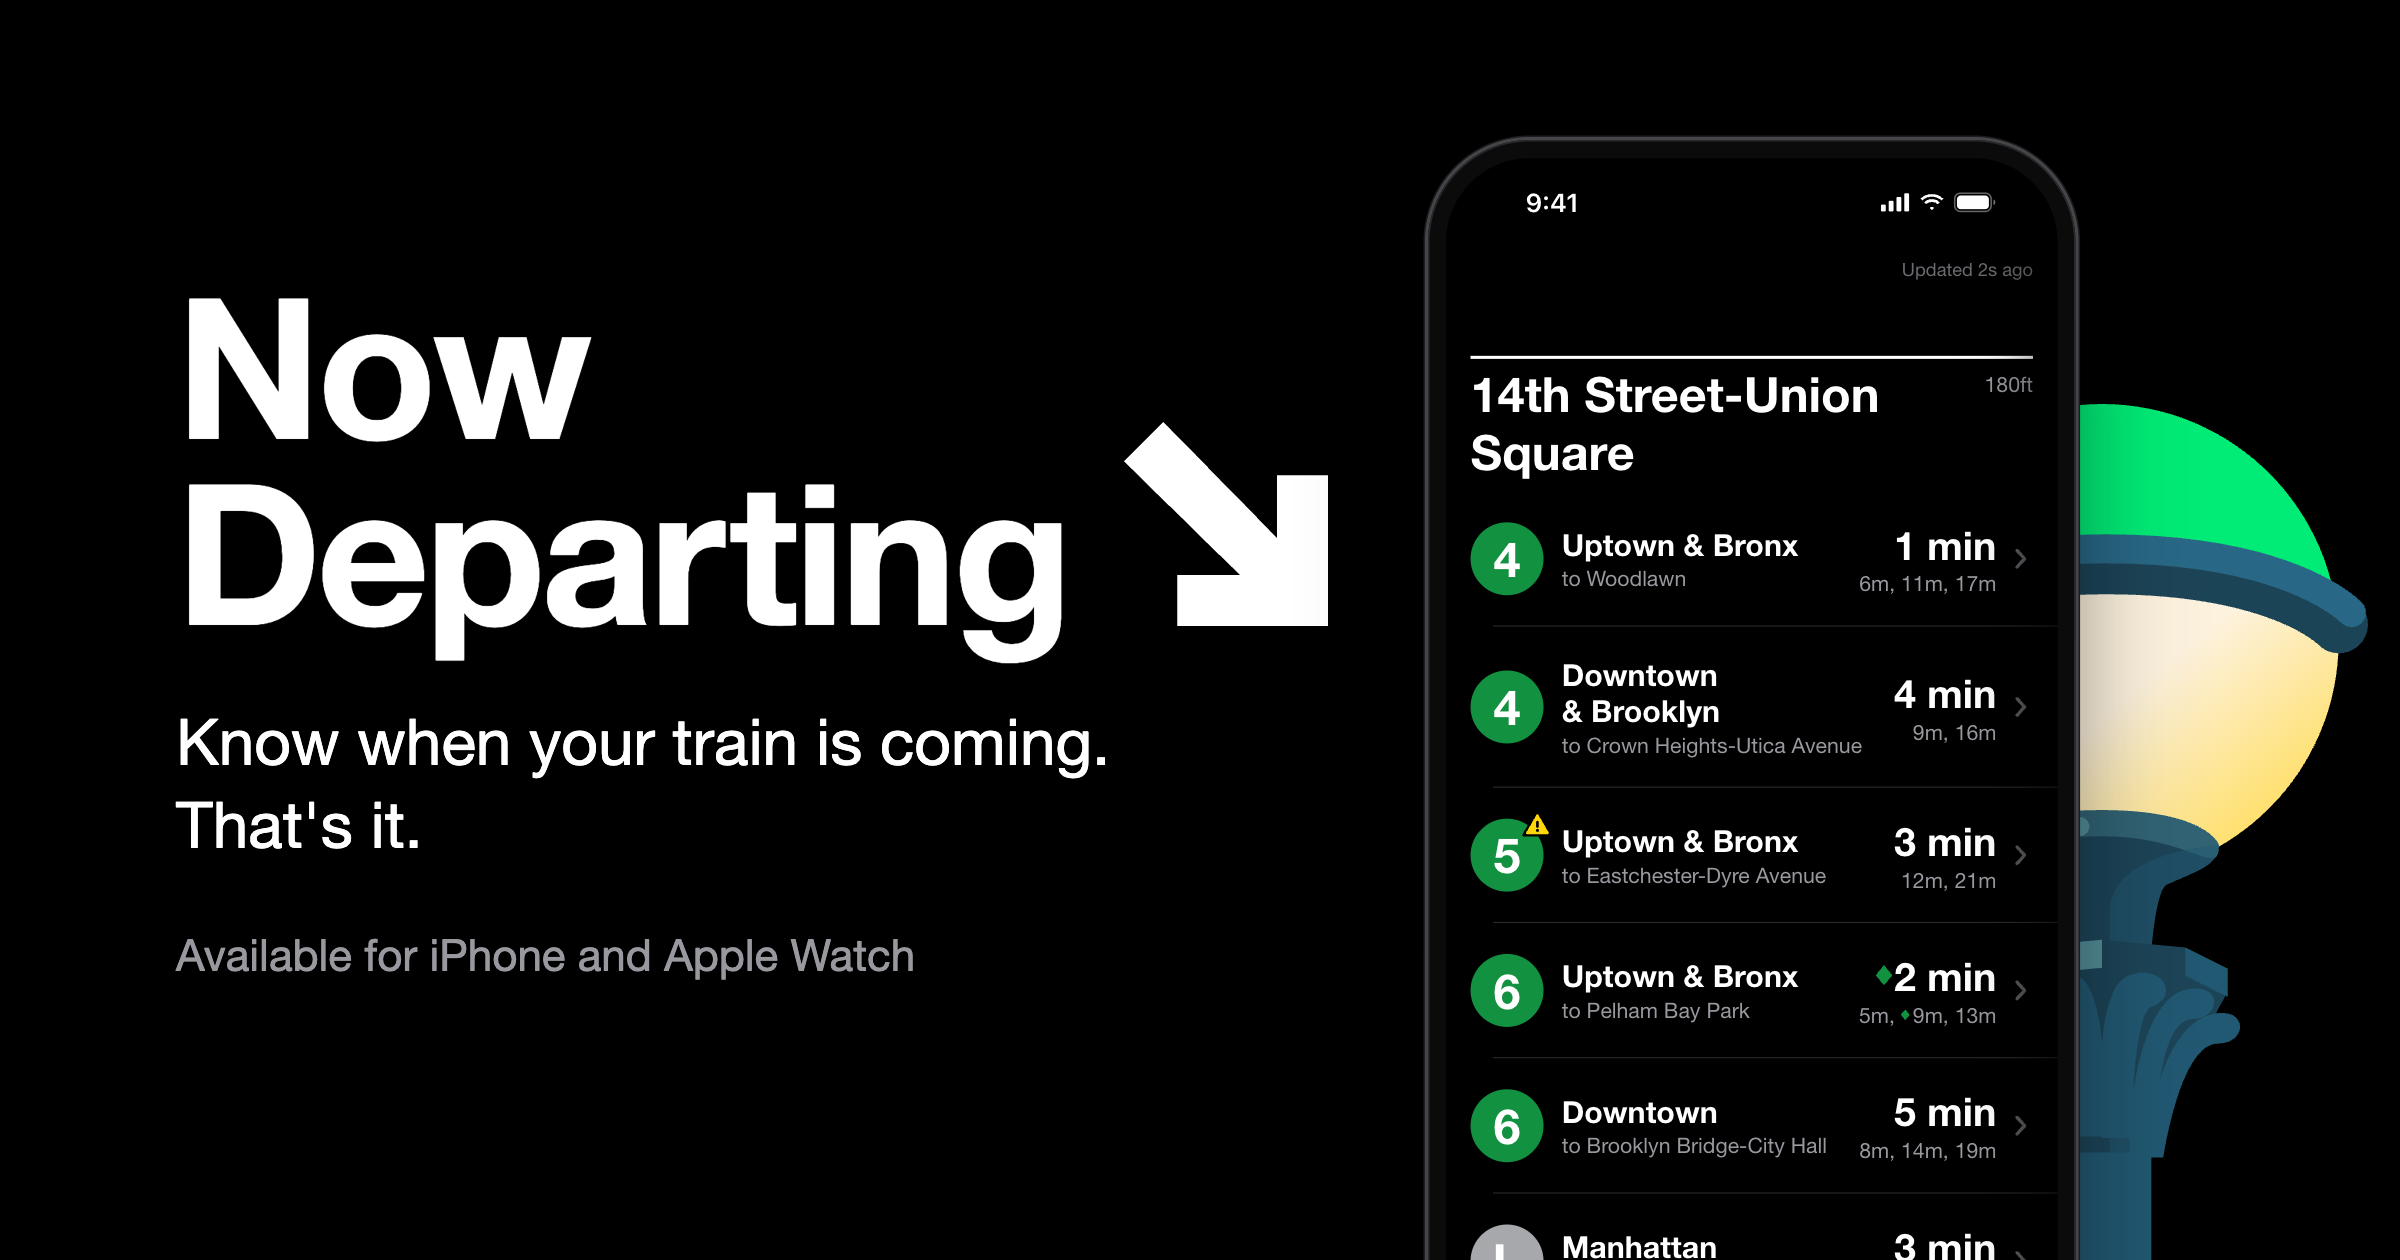
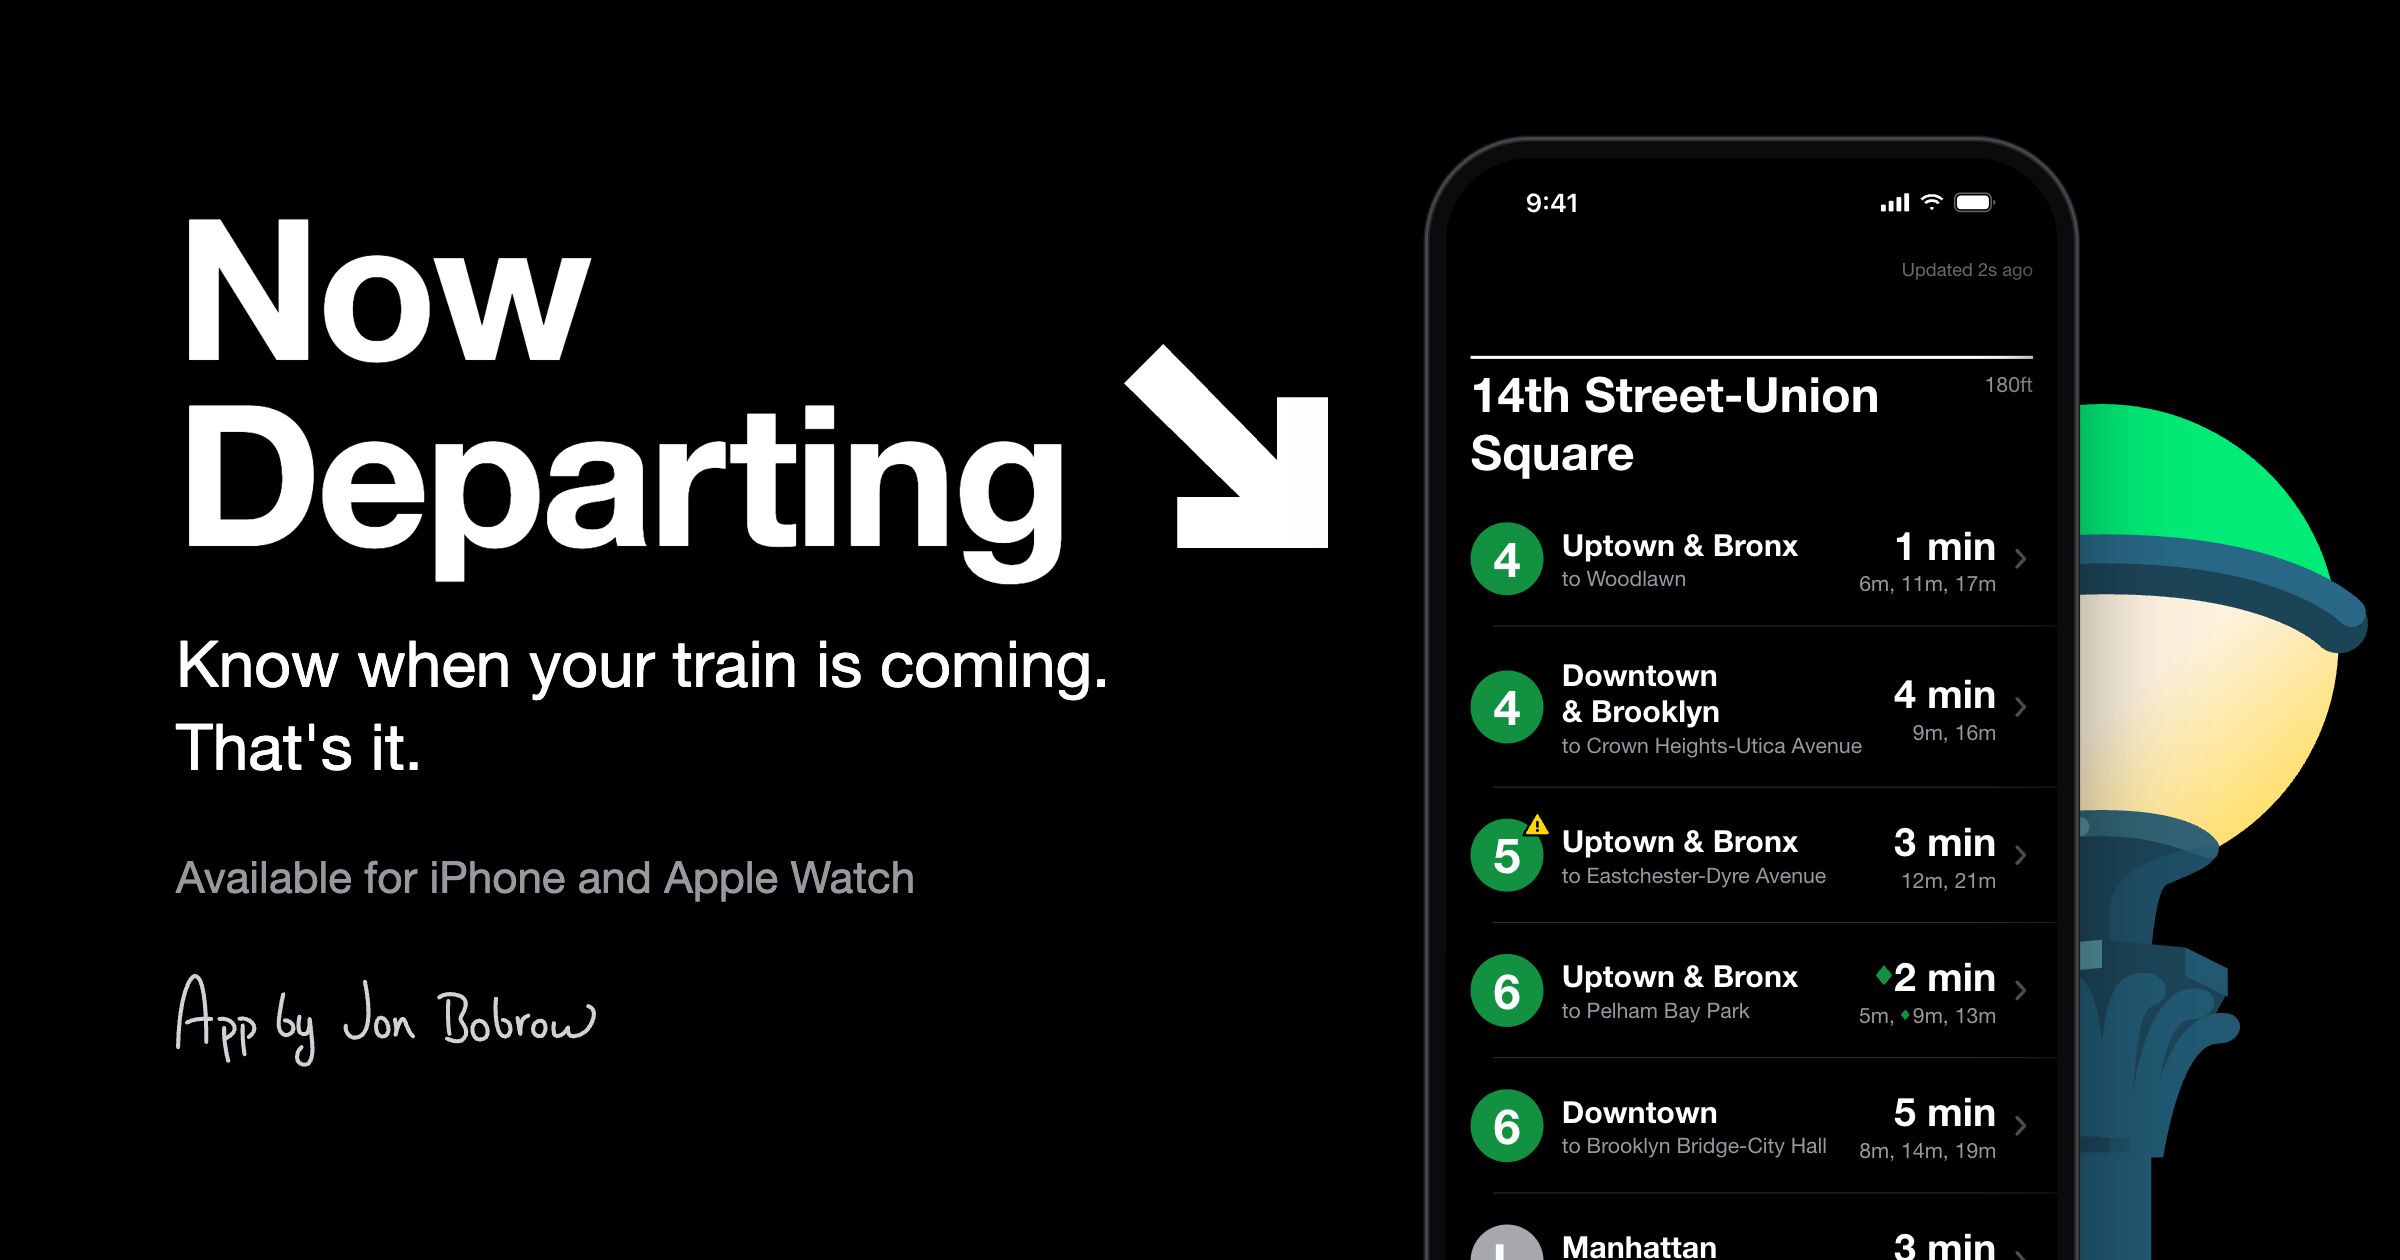
Share image: App by Jon Bobrow signature

Changed region(s): [[0.0625, 0.1548, 0.5625, 0.7119], [0.0625, 0.7429, 0.375, 0.8357]]

diff --git a/_og/og-image.html b/_og/og-image.html
@@ -1013,6 +1013,7 @@
     .tagline { font-size: 32px; }
     .blurb { font-size: 22px; color: #98989f; max-width: none; }
     .app-store-button { display: none; }
+    .og-sig { display: block; width: 210px; height: auto; margin-top: 0.25rem; color: #d1d1d6; }
     .stage { flex: 0 0 auto; width: 500px; height: 630px; align-self: stretch; }
     .stage .phone-wrap { left: 14px; top: 70px; bottom: auto; --s: 0.76; }
     .stage .globe { width: 266px; right: 16px; bottom: -80px; }
@@ -1031,6 +1032,8 @@
             </div>
             <p class="tagline">Know when your train is coming.<br>That's it.</p>
             <p class="blurb">Available for iPhone and Apple Watch</p>
+            <!-- The same signature as the site footer, as NYC Parking and NYC Rent previews sign off -->
+            <svg class="og-sig" aria-label="App by Jon Bobrow" viewBox="0 0 3087.29 681.93" fill="none" stroke="currentColor" stroke-width="30" stroke-linecap="round" stroke-linejoin="round" aria-hidden="true"><path d="M1610.11,335.11c0,17.82,19.8,77.22,3.96,110.89M15,537.47C23.66,136.35,107.34,18.04,136.2,15.15c28.86-2.89,86.57,31.74,86.57,484.8M80.58,356.55c65.34-37.62,178.21-25.74,178.21-25.74M320.17,330.81c81.18-15.84,176.23,73.26,47.52,142.57M466.7,328.83c81.18-15.84,160.39,71.28,67.32,134.65M353.83,396.15c-5.94,104.95,29.7,241.57,29.7,241.57M490.46,378.33c-5.94,104.95,13.86,211.87,13.86,211.87M788.37,148.98c-11.88,49.5-26.16,130.64-33.66,199.99-7.92,73.26,38.68,123.77,86.2,90.1s12.8-101.98-40.66-98.06M923.02,537.08c-35.64,27.72-53.4,109.67,2.96,126.69,69.81,21.08,80.2-67.28,76.24-138.57s-19.8-194.05-19.8-194.05M982.42,331.15c1.98,75.24-9.9,118.81-51.48,110.89s-31.68-85.14-23.76-128.71M1388.34,55.92c29.7,142.57,55.95,373.41-47.52,407.9-71.28,23.76-100.98-51.48-93.06-83.16M1507.15,321.25c-45.54-3.96-56.51,138.61,9.9,138.61,73.26,0,47.85-133.59-9.9-138.61ZM2225.92,343.03c-72.62,9.68-56.39,142.67,9.9,138.61,97.02-5.94,49.5-146.53-9.9-138.61ZM2686.12,343.13c-64.18-8.02-87.35,95.19-26.56,112.77,66.28,19.16,73.26-106.93,26.56-112.77ZM1614.07,445.99c19.8-85.14,41.58-116.83,55.44-116.83s37.62,108.91,73.26,128.71M1934.85,172.74c47.52-45.54,186.13-25.74,194.05,33.66,7.92,59.4-39.6,97.02-37.62,122.77s56.36,69.3,38.54,120.79-66.26,57.42-137.55,25.74M2002.17,198.48c-5.94,47.52-1.98,209.89,7.92,241.57M2352.65,182.64c-7.92,55.44-9.84,280.18,67.32,277.21,51.48-1.98,57.42-116.83-17.82-122.77M2590.26,305.41c-35.64,13.86-59.4,27.56-59.4,134.65,0,9.9-15.84-93.06-19.8-116.83M2881.33,392.53s-9.9,67.32,39.6,65.34c69.28-2.77,130.89-59.33,148.51-138.61,15.84-71.28-39.6-83.16-39.6-83.16M2778.37,360.85c-7.92,49.5-1.85,92.77,17.82,95.04,51.48,5.94,85.14-63.36,85.14-63.36"/></svg>
             <a href="https://apps.apple.com/us/app/now-departing/id6740440448" class="app-store-button">
                 <img src="img/Download_on_the_App_Store_Badge_US-UK_RGB_blk_092917.svg" alt="Download on the App Store">
             </a>

diff --git a/index.html b/index.html
@@ -9,7 +9,7 @@
     <!-- meta details -->
     <meta property="og:title" content="Now Departing - Live NYC Subway countdowns" />
     <meta property="og:description" content="Now Departing puts live NYC subway departure times on your iPhone, Home Screen, Lock Screen and Apple Watch." />
-    <meta property="og:image" content="https://nowdeparting.app/img/og-image.png?v=3" />
+    <meta property="og:image" content="https://nowdeparting.app/img/og-image.png?v=4" />
     <meta property="og:url" content="https://nowdeparting.app" />
     <meta property="og:type" content="website" />
     <meta property="og:site_name" content="Now Departing" />
@@ -17,7 +17,7 @@
     <meta name="twitter:card" content="summary_large_image" />
     <meta name="twitter:title" content="Now Departing - Live NYC Subway countdowns" />
     <meta name="twitter:description" content="Now Departing puts live NYC subway departure times on your iPhone, Home Screen, Lock Screen and Apple Watch." />
-    <meta name="twitter:image" content="https://nowdeparting.app/img/og-image.png?v=3" />
+    <meta name="twitter:image" content="https://nowdeparting.app/img/og-image.png?v=4" />
     <link rel="preconnect" href="https://fonts.googleapis.com">
     <link rel="preconnect" href="https://fonts.gstatic.com" crossorigin>
     <link href="https://fonts.googleapis.com/css2?family=Silkscreen&display=swap" rel="stylesheet">

diff --git a/game/index.html b/game/index.html
@@ -8,7 +8,7 @@
     <title>Matcha or Train? - Now Departing</title>
     <meta property="og:title" content="Matcha or Train?" />
     <meta property="og:description" content="Every Brooklyn morning comes down to one decision at the top of the stairs. A tiny game from Now Departing." />
-    <meta property="og:image" content="https://nowdeparting.app/img/og-image.png?v=3" />
+    <meta property="og:image" content="https://nowdeparting.app/img/og-image.png?v=4" />
     <meta property="og:url" content="https://nowdeparting.app/game/" />
     <link rel="preconnect" href="https://fonts.googleapis.com">
     <link rel="preconnect" href="https://fonts.gstatic.com" crossorigin>
